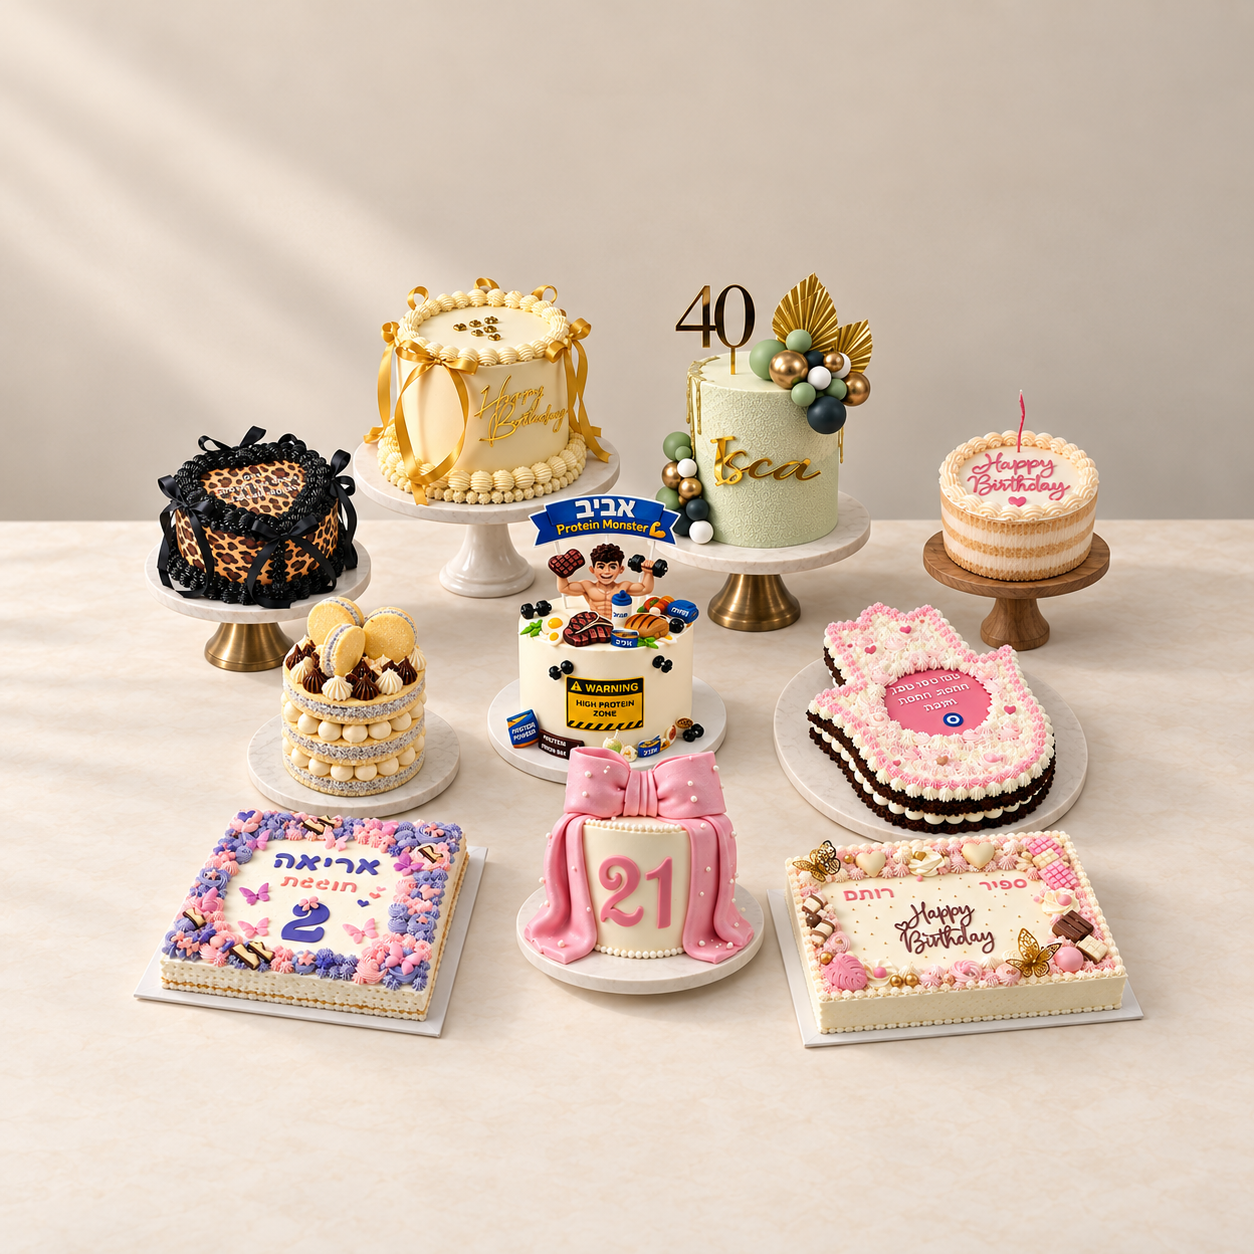
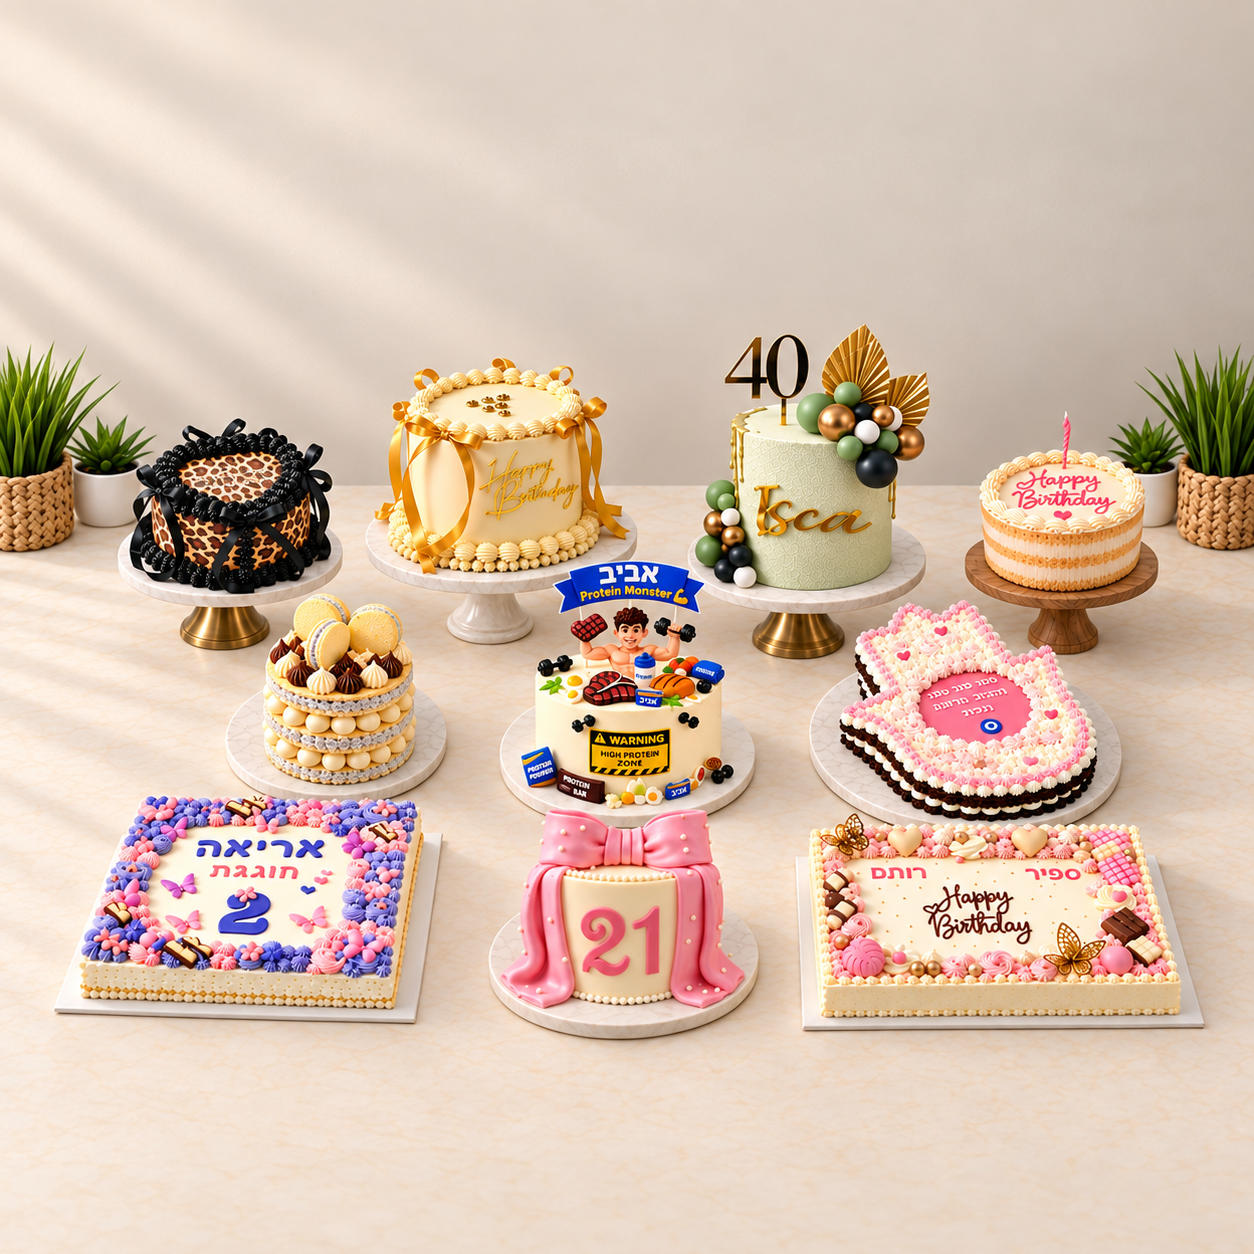
feat: update hero images across pages to new owner and cover images

diff --git a/app/about/page.tsx b/app/about/page.tsx
@@ -18,11 +18,11 @@ export default function AboutPage() {
         {/* Page Header */}
         <section className="relative h-72 md:h-96 overflow-hidden">
           <Image
-            src="/images/about-hero.png"
+            src="/images/about-owner.png"
             alt="סלעית בסטודיו האפייה"
             fill
             priority
-            className="object-cover object-center"
+            className="object-cover object-top"
           />
           <div className="absolute inset-0 bg-foreground/45" />
           <div className="absolute inset-0 flex items-center justify-center flex-col gap-3 px-4">
@@ -42,7 +42,7 @@ export default function AboutPage() {
             <div className="md:w-2/5 flex-shrink-0">
               <div className="aspect-[3/4] rounded-3xl overflow-hidden bg-muted relative shadow-md">
                 <Image
-                  src="/images/about-hero.png"
+                  src="/images/about-owner.png"
                   alt="סלעית – בעלת SoolSweets"
                   fill
                   className="object-cover"

diff --git a/app/category/special/page.tsx b/app/category/special/page.tsx
@@ -47,7 +47,7 @@ export default function SpecialPage() {
     <CategoryPage
       title="קולקציית ה-WOW"
       subtitle="חוויות שוקולד שלא תשכחו לעולם"
-      heroImage="/images/category-special.png"
+      heroImage="/images/category-special-cover.png"
       heroAlt="קולקציית ה-WOW של SoolSweets"
       description=" מחפשים את אפקט ה”וואו”? כאן תמצאו את היצירות הייחודיות של Soolsweets – כאלה שכולם ידברו עליהן גם אחרי שהאירוע יסתיים. מכדורגל שוקולד, סוכריה מתנפצת, ביצת שוקולד ענקית ועד עוגות קומות ויצירות מתוקות בהתאמה אישית – לחגיגות שרוצות להרשים."
       products={products}

diff --git a/app/page.tsx b/app/page.tsx
@@ -29,7 +29,7 @@ const categories = [
     href: '/category/special',
     title: 'קולקציית ה-WOW',
     description: "לחוויה מתוקה ובלתי נשכחת: כדורי שוקולד מתנפצים, סוכריות ענק מתנפצות, עוגות קומות מרשימות וקינוחים ייחודיים.",
-    image: '/images/category-special.png',
+    image: '/images/category-special-cover.png',
   },
 ]
 
@@ -147,7 +147,7 @@ export default function HomePage() {
             </div>
             <div className="relative h-72 md:h-auto md:w-1/2">
               <Image
-                src="/images/about-hero.png"
+                src="/images/about-owner.png"
                 alt="סדנאות אפייה של SoolSweets"
                 fill
                 className="object-cover"
